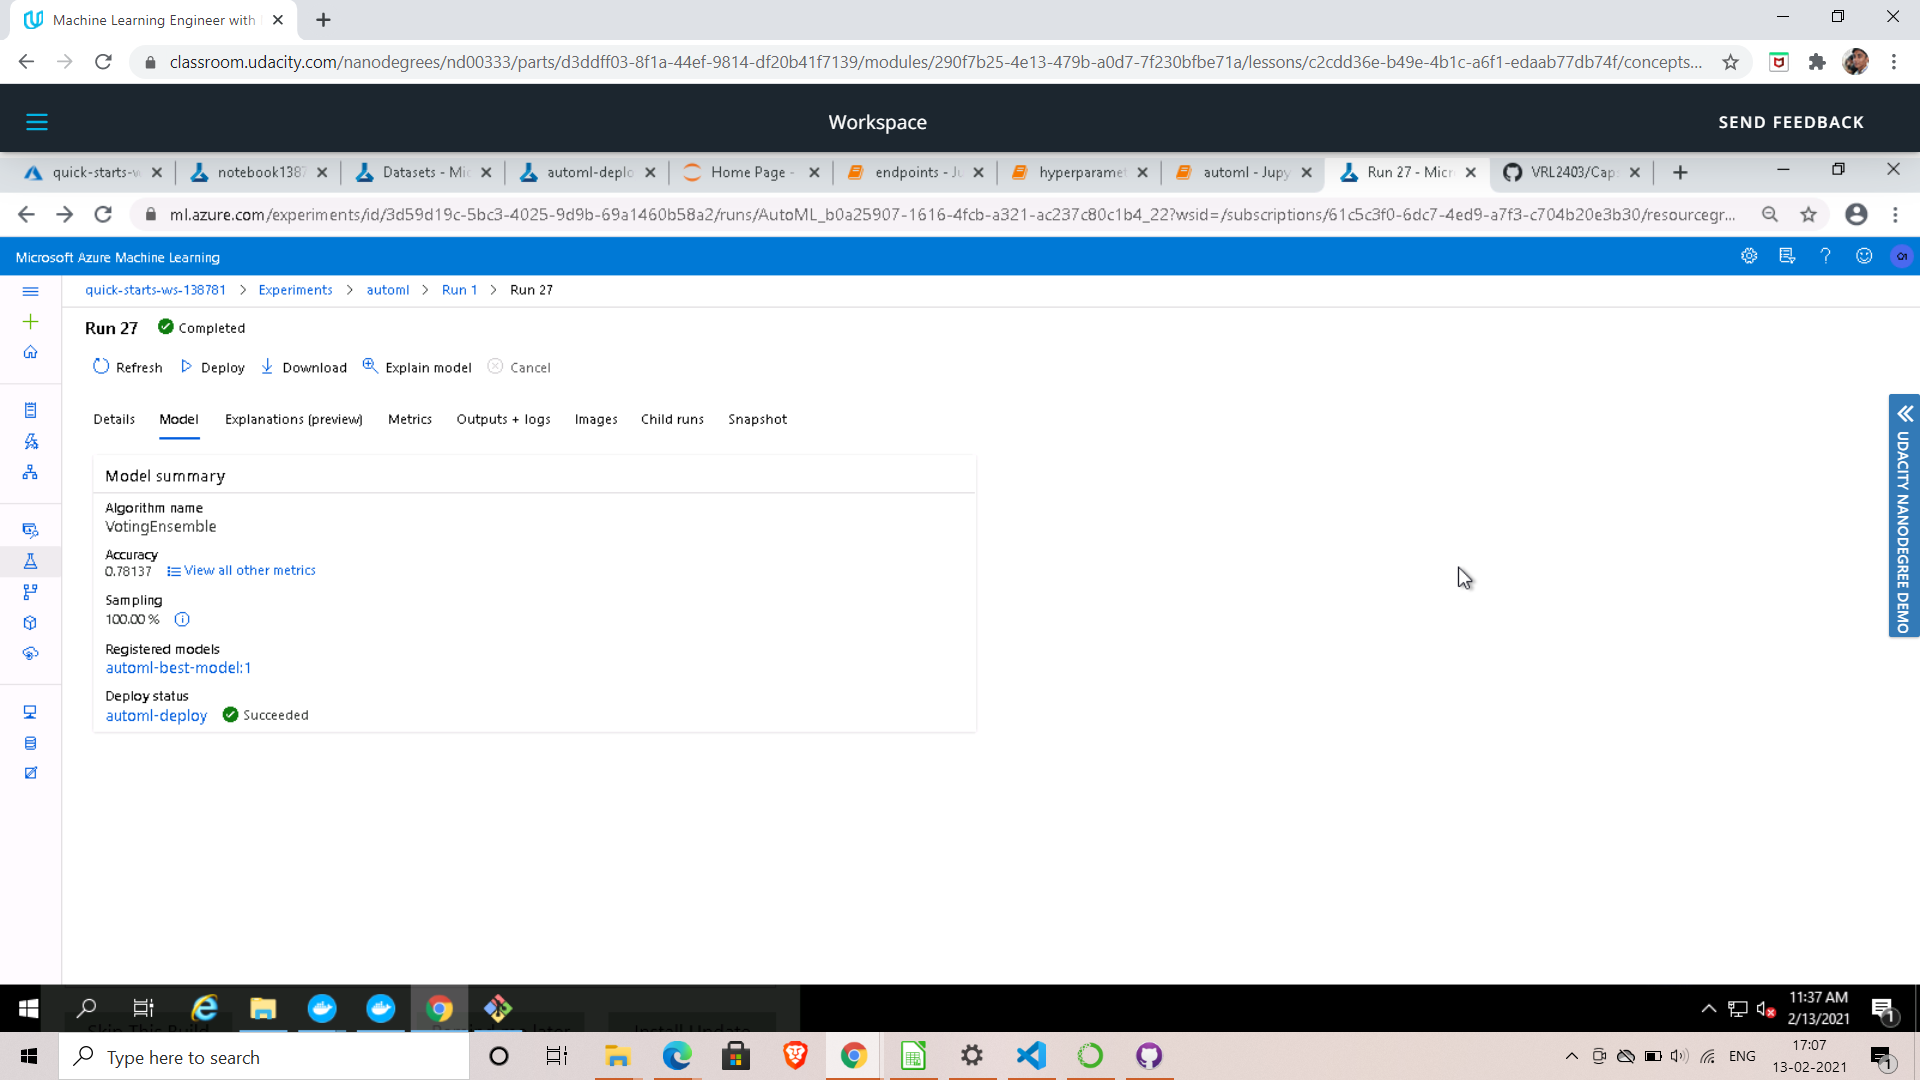
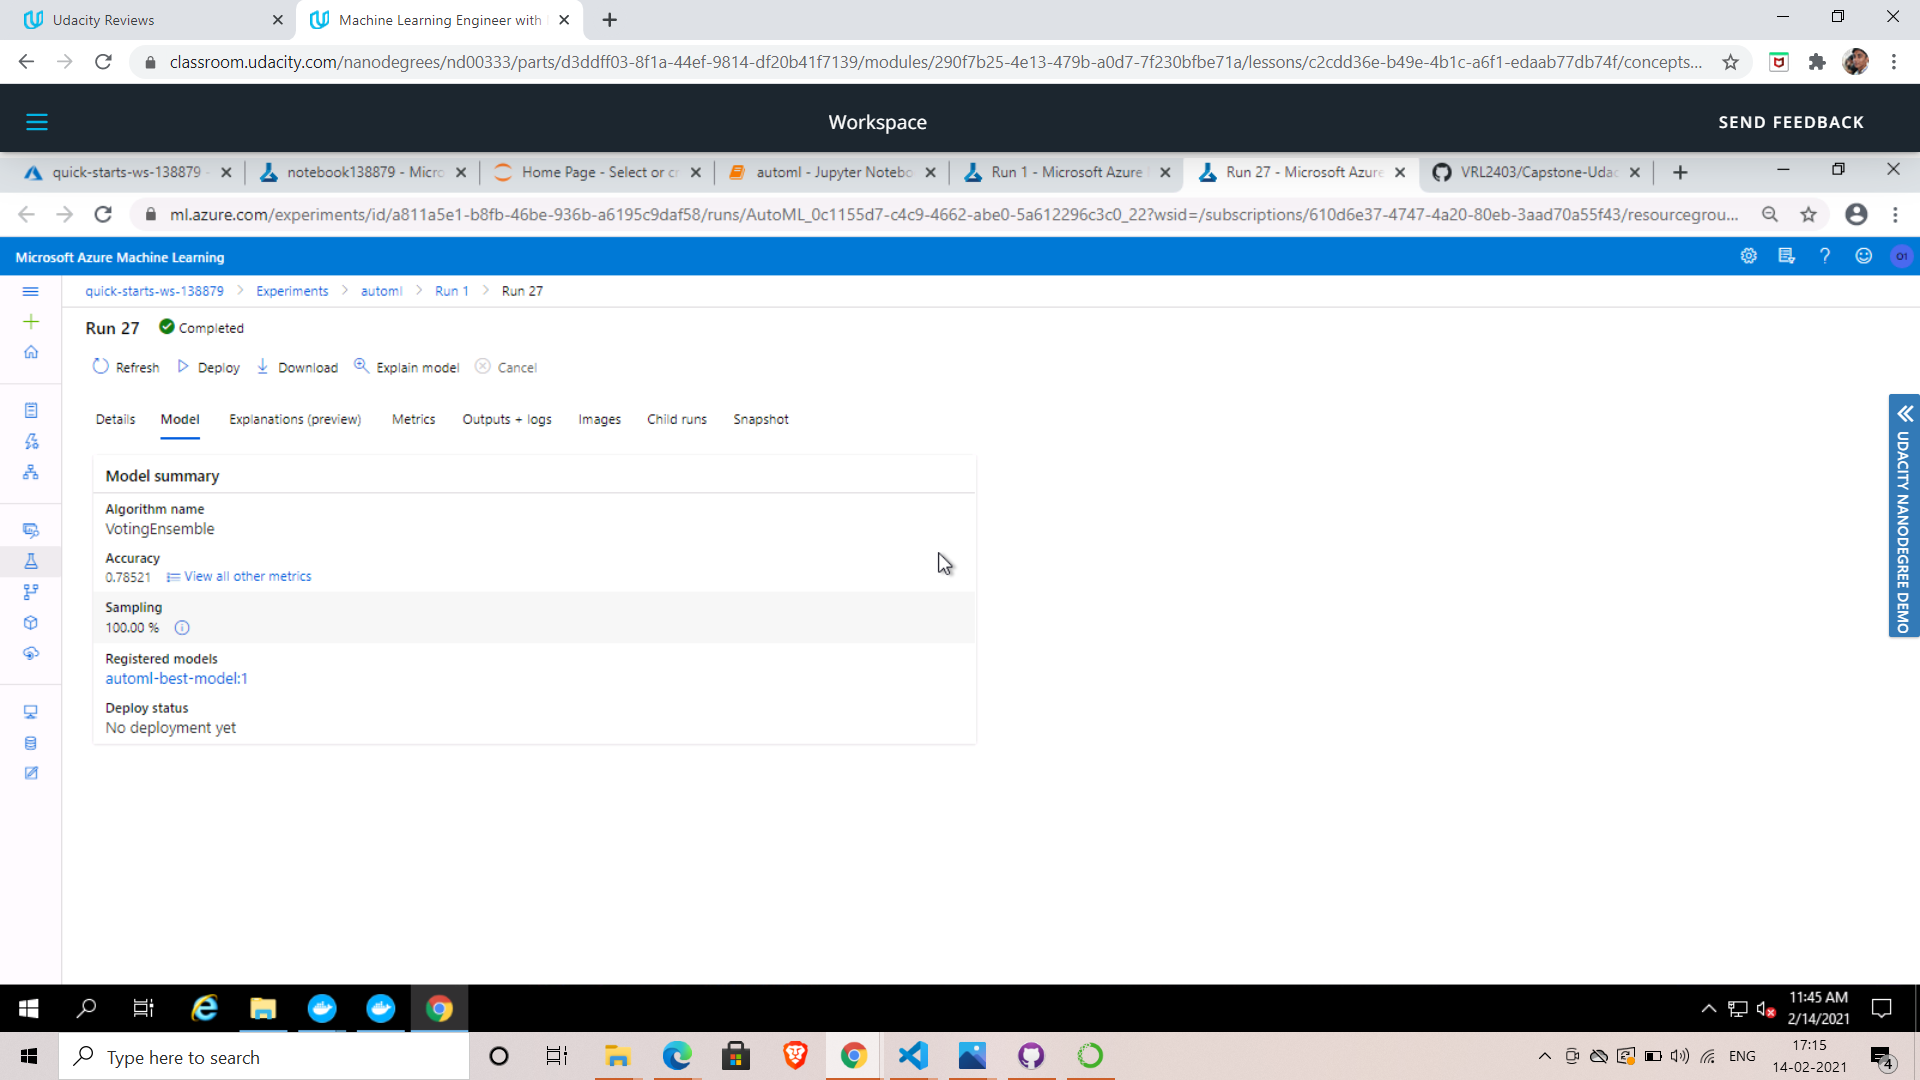
Updated readme and images as per new AutoML run

diff --git a/README.md b/README.md
@@ -113,6 +113,8 @@ Overview of the `automl` settings and configuration settings experiment:
 
 ![Best Model AutoML](/images/Best_Model_AutoML.PNG)
 
+![Best Model Parameter and Completion Status](/images/Best_Model_Parameter_and_Model_Completion_Status.PNG)
+
 - `RunDetails` widget of best model screenshot 
 
 ![Run Details AutoML](/images/Run_Details_AutoML.PNG)
@@ -202,4 +204,9 @@ service.wait_for_deployment(show_output=True)
 
 Following is link to Projects Demonstration Screen Recording [link](https://youtu.be/K5tPVB-LOxw)
 
+---
 
+### Future improvements:
+1. Performing some feature engineering on data, like some records in the datasets are hypotheical like number of pregnecies 15 and 17, also SkinThickness For adults, the standard normal values for triceps skinfolds are: 2.5mm (men) or about 20% fat; 18.0mm (women) or about 30% fat, so such outliers or mistakes done while collecting data can be removed to improve the prediction.
+2. Trained the dataset using different models like KNN or Neural Networks.
+3. In case of AutoML, we can try Interchanging n_cross_validations value between (2 till 7) and see if the prediction accuracy improved by tuning this parameter.
